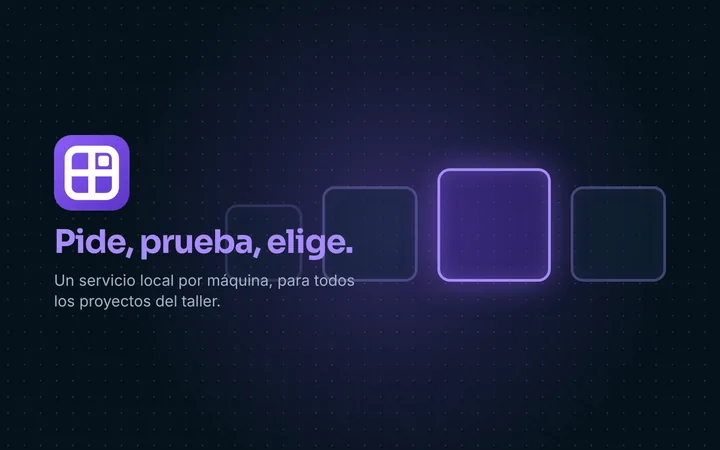
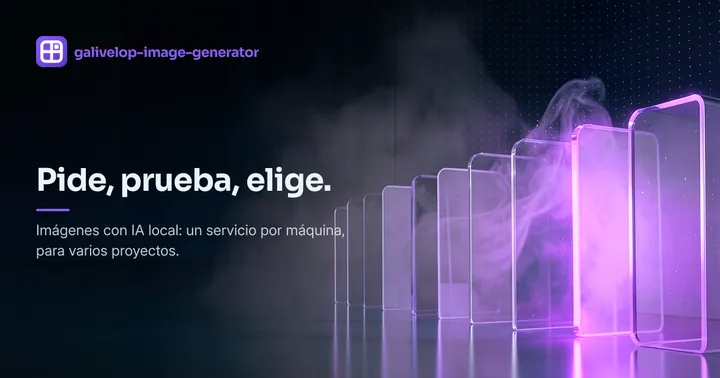
feat(galivelop-image-generator): portada de Galivelop IG con la imagen de la persona
La portada del proyecto (tarjeta y ficha) pasa a ser la imagen de Galivelop IG
que pasó la persona (la misma og-fuente.png de su og.jpg), a 1600×840 y 720×378,
con su alt en los tres idiomas. Check en verde (tsc, vitest 129/129, ganchos).

Refs: galivelop-image-generator
Siguiente: pedir /clear; queda la cifra «1776» de la ficha del workflow
Claude-Session: https://claude.ai/code/session_01VdeHmCDV7sR1VeH1DhS3T9

diff --git a/docs/handoff.md b/docs/handoff.md
@@ -18,6 +18,7 @@ Se actualiza en cada commit. Reglas en [`CLAUDE.md`](../CLAUDE.md).
 La web se publica los domingos a las 20:45 (hora de Madrid) con la tarea programada «Proyectos semanal» (ver `AGENTS.md`).
 Aquí se apunta lo que está en la rama de trabajo y aún no en `main`.
 
+- Galivelop IG: su portada en el portal (tarjeta y ficha) es ahora la imagen de Galivelop IG que pasó la persona el 2026-11-08 (la misma `og-fuente.png` de su og.jpg), en vez de la portada provisional oscura; la de toVeriAI sigue siendo la captura de su producto. Subido a `main` el mismo día.
 - Galivelop-workflow v0.5.1 (para una sesión de trabajo): contar las pruebas exactas de la etiqueta `v0.5.1` y poner al día la cifra «1776» de la ficha (ni la revisión semanal ni la sesión del 2026-11-08 pudieron correr los tests de esa etiqueta). Los siete diagramas ya van en 0.5.1 y con la hoja de estilos de la marca (2026-11-08, rama `ccr-47a38edd-v566du`).
 
 
